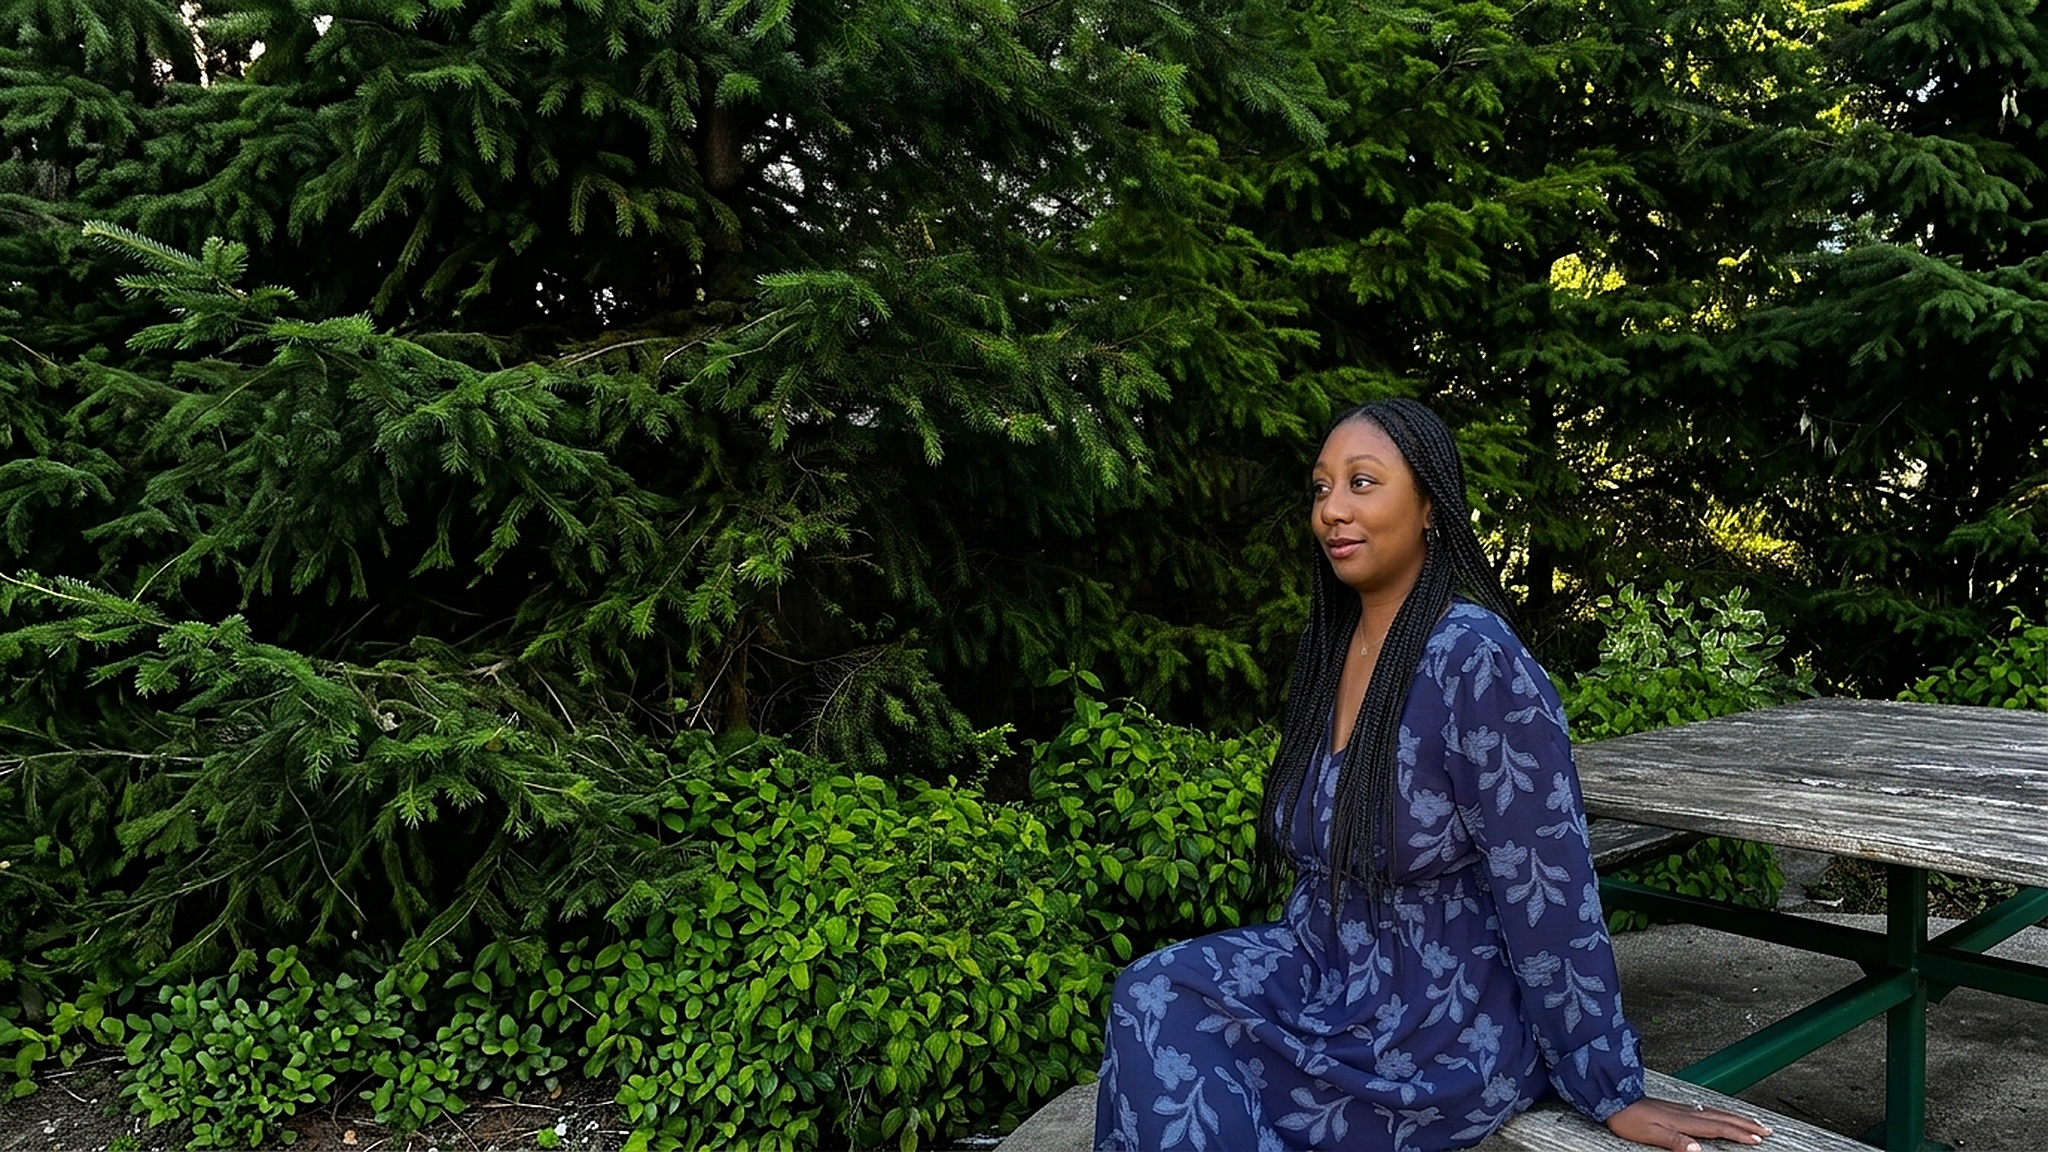
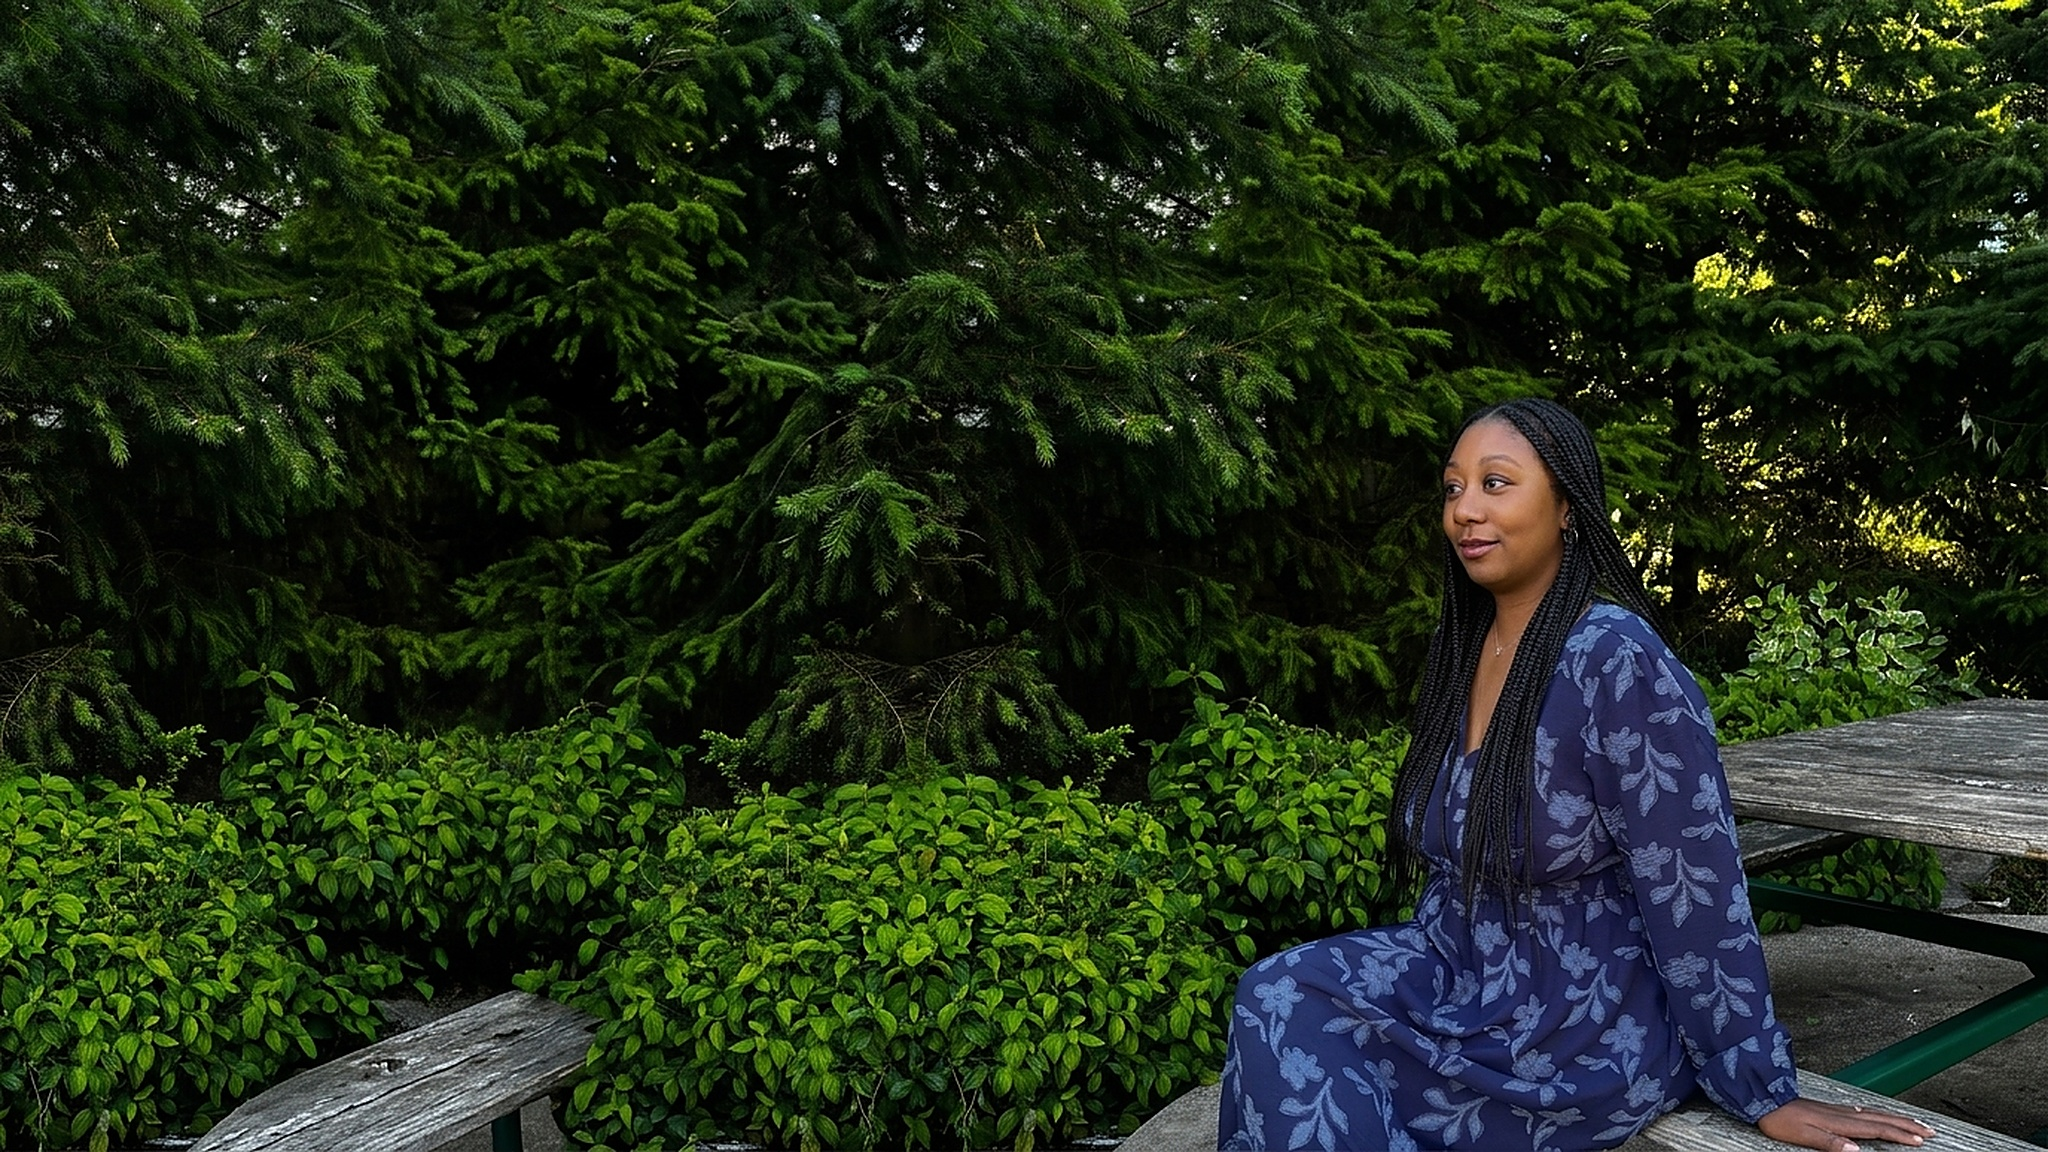
Replace author photo with Daniell_website.heic, convert to JPEG, outpaint left side, and increment cache buster to v=6

diff --git a/index.html b/index.html
@@ -439,7 +439,7 @@
 
         <!-- Hero: photo + quote card -->
         <div class="about-hero">
-            <img src="danielle.jpg?v=5" alt="Danielle Niyotwagira" class="about-photo">
+            <img src="danielle.jpg?v=6" alt="Danielle Niyotwagira" class="about-photo">
             <div class="quote-card">
                 <p class="quote-card-body">
                     <span class="open-mark">"</span>How foolish can you be? After starting your